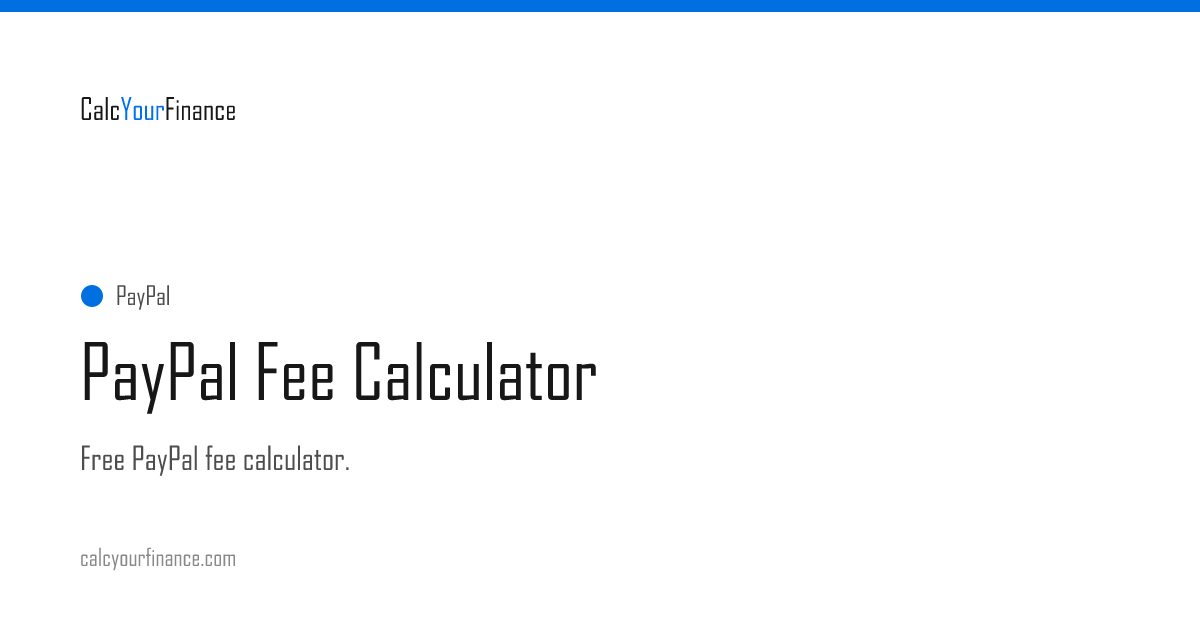
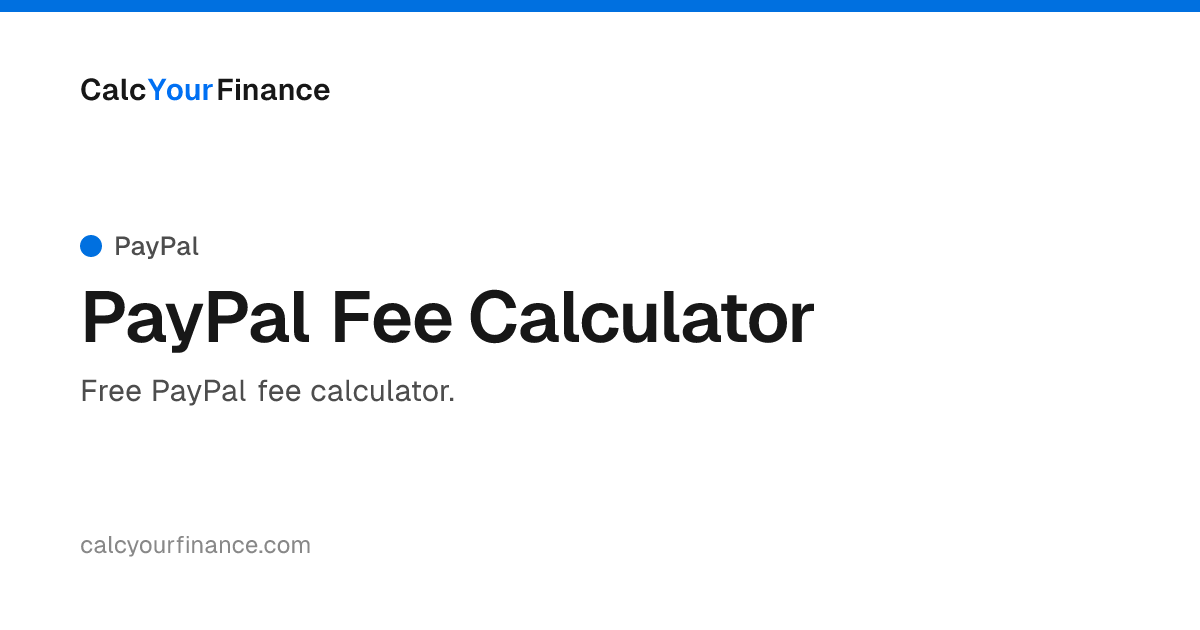
Fix OG image title font with Satori
resvg mis-rasterized Geist above ~32px (condensed glyphs) regardless of
weight/format. Switched OG generation to Satori (vector text shaping) +
resvg (rasterize), using static Geist Sans woff masters. Titles now render
as proper bold Geist at full size with per-platform accents.

diff --git a/scripts/make-og.ts b/scripts/make-og.ts
@@ -3,11 +3,14 @@
  * default, into public/og/. Clean Geist-style: ink wordmark, big title, a
  * per-platform accent. Run with: npm run og
  *
- * PNGs are committed so they ship regardless of the deploy host's fonts.
+ * Uses Satori to shape text into vector paths (correct typography at any size),
+ * then resvg to rasterize to PNG. PNGs are committed so they ship regardless
+ * of the deploy host's fonts.
  */
 import { readFileSync, writeFileSync, mkdirSync } from "node:fs";
 import { fileURLToPath } from "node:url";
 import { dirname, resolve } from "node:path";
+import satori from "satori";
 import { Resvg } from "@resvg/resvg-js";
 import { calculators } from "../src/calculators/index.ts";
 import { getPlatform } from "../src/config/platforms.ts";
@@ -17,16 +20,27 @@ const root = resolve(__dirname, "..");
 const outDir = resolve(root, "public", "og");
 mkdirSync(outDir, { recursive: true });
 
-const fontPath = resolve(
-  root,
-  "node_modules/@fontsource-variable/geist/files/geist-latin-wght-normal.woff2",
-);
-const fontBuffer = readFileSync(fontPath);
+const fontDir = resolve(root, "node_modules/@fontsource/geist-sans/files");
+const font = (w: string) =>
+  readFileSync(resolve(fontDir, `geist-sans-latin-${w}-normal.woff`));
+const fonts = [
+  { name: "Geist", data: font("400"), weight: 400 as const, style: "normal" as const },
+  { name: "Geist", data: font("500"), weight: 500 as const, style: "normal" as const },
+  { name: "Geist", data: font("600"), weight: 600 as const, style: "normal" as const },
+];
 
-const esc = (s: string) =>
-  s.replace(/&/g, "&amp;").replace(/</g, "&lt;").replace(/>/g, "&gt;");
+const INK = "#171717";
+const BODY = "#4d4d4d";
+const MUTE = "#888888";
+const LINK = "#0070f3";
 
-function svg({
+// Minimal hyperscript for Satori's React-element shape.
+const h = (type: string, style: Record<string, unknown>, children?: unknown) => ({
+  type,
+  props: { style, children },
+});
+
+function layout({
   title,
   subtitle,
   accent,
@@ -36,62 +50,75 @@ function svg({
   subtitle: string;
   accent: string;
   chip?: string;
-}): string {
-  const ink = "#171717";
-  const body = "#4d4d4d";
-  const mute = "#888888";
-  const link = "#0070f3";
-  return `<svg width="1200" height="630" viewBox="0 0 1200 630" xmlns="http://www.w3.org/2000/svg">
-  <rect width="1200" height="630" fill="#ffffff"/>
-  <rect width="1200" height="12" fill="${accent}"/>
-  <text x="80" y="120" font-family="Geist Variable, sans-serif" font-size="30" font-weight="400" fill="${ink}">Calc<tspan fill="${link}">Your</tspan>Finance</text>
-  ${
-    chip
-      ? `<circle cx="92" cy="296" r="11" fill="${accent}"/><text x="116" y="305" font-family="Geist Variable, sans-serif" font-size="26" font-weight="400" fill="${body}">${esc(chip)}</text>`
-      : ""
-  }
-  <text x="80" y="400" font-family="Geist Variable, sans-serif" font-size="76" font-weight="400" fill="${ink}">${esc(title)}</text>
-  <text x="80" y="470" font-family="Geist Variable, sans-serif" font-size="32" font-weight="400" fill="${body}">${esc(subtitle)}</text>
-  <text x="80" y="566" font-family="Geist Variable, sans-serif" font-size="24" font-weight="400" fill="${mute}">calcyourfinance.com</text>
-</svg>`;
-}
-
-function render(markup: string, outFile: string) {
-  const r = new Resvg(markup, {
-    fitTo: { mode: "width", value: 1200 },
-    font: {
-      fontBuffers: [fontBuffer],
-      defaultFontFamily: "Geist Variable",
-      // Use ONLY the Geist buffer so every text element is consistent
-      // (no condensed system-font fallback on the large title).
-      loadSystemFonts: false,
+}) {
+  return h(
+    "div",
+    {
+      width: "100%",
+      height: "100%",
+      display: "flex",
+      flexDirection: "column",
+      justifyContent: "space-between",
+      backgroundColor: "#ffffff",
+      padding: "72px 80px",
+      fontFamily: "Geist",
+      position: "relative",
     },
-  });
-  writeFileSync(outFile, r.render().asPng());
-}
-
-// Default
-render(
-  svg({
-    title: "Calculate fees. Keep more.",
-    subtitle: "Free e-commerce, payment & finance calculators.",
-    accent: "#171717",
-  }),
-  resolve(outDir, "default.png"),
-);
-
-// Per calculator
-for (const c of calculators) {
-  const p = getPlatform(c.platform);
-  render(
-    svg({
-      title: c.title,
-      subtitle: c.metaDescription.split(".")[0] + ".",
-      accent: p?.color ?? "#0070f3",
-      chip: p?.name,
-    }),
-    resolve(outDir, `${c.slug}.png`),
+    [
+      h("div", { position: "absolute", top: 0, left: 0, width: 1200, height: 12, backgroundColor: accent }),
+      // Wordmark
+      h("div", { display: "flex", fontSize: 30, fontWeight: 600, color: INK }, [
+        h("div", { display: "flex" }, "Calc"),
+        h("div", { display: "flex", color: LINK }, "Your"),
+        h("div", { display: "flex" }, "Finance"),
+      ]),
+      // Middle block
+      h("div", { display: "flex", flexDirection: "column" }, [
+        chip
+          ? h("div", { display: "flex", alignItems: "center", marginBottom: 18 }, [
+              h("div", { width: 22, height: 22, borderRadius: 999, backgroundColor: accent, marginRight: 12 }),
+              h("div", { display: "flex", fontSize: 26, fontWeight: 500, color: BODY }, chip),
+            ])
+          : h("div", {}),
+        h("div", { display: "flex", fontSize: 72, fontWeight: 600, color: INK, letterSpacing: "-2px", lineHeight: 1.05 }, title),
+        h("div", { display: "flex", fontSize: 30, fontWeight: 400, color: BODY, marginTop: 18 }, subtitle),
+      ]),
+      // Footer
+      h("div", { display: "flex", fontSize: 24, fontWeight: 400, color: MUTE }, "calcyourfinance.com"),
+    ],
   );
 }
 
-console.log(`Generated ${calculators.length + 1} OG images → public/og/`);
+async function render(opts: Parameters<typeof layout>[0], outFile: string) {
+  const svg = await satori(layout(opts) as never, { width: 1200, height: 630, fonts });
+  const png = new Resvg(svg, { fitTo: { mode: "width", value: 1200 } }).render().asPng();
+  writeFileSync(outFile, png);
+}
+
+const main = async () => {
+  await render(
+    {
+      title: "Calculate fees. Keep more.",
+      subtitle: "Free e-commerce, payment & finance calculators.",
+      accent: INK,
+    },
+    resolve(outDir, "default.png"),
+  );
+
+  for (const c of calculators) {
+    const p = getPlatform(c.platform);
+    await render(
+      {
+        title: c.title,
+        subtitle: c.metaDescription.split(".")[0] + ".",
+        accent: p?.color ?? LINK,
+        chip: p?.name,
+      },
+      resolve(outDir, `${c.slug}.png`),
+    );
+  }
+
+  console.log(`Generated ${calculators.length + 1} OG images → public/og/`);
+};
+
+main();
